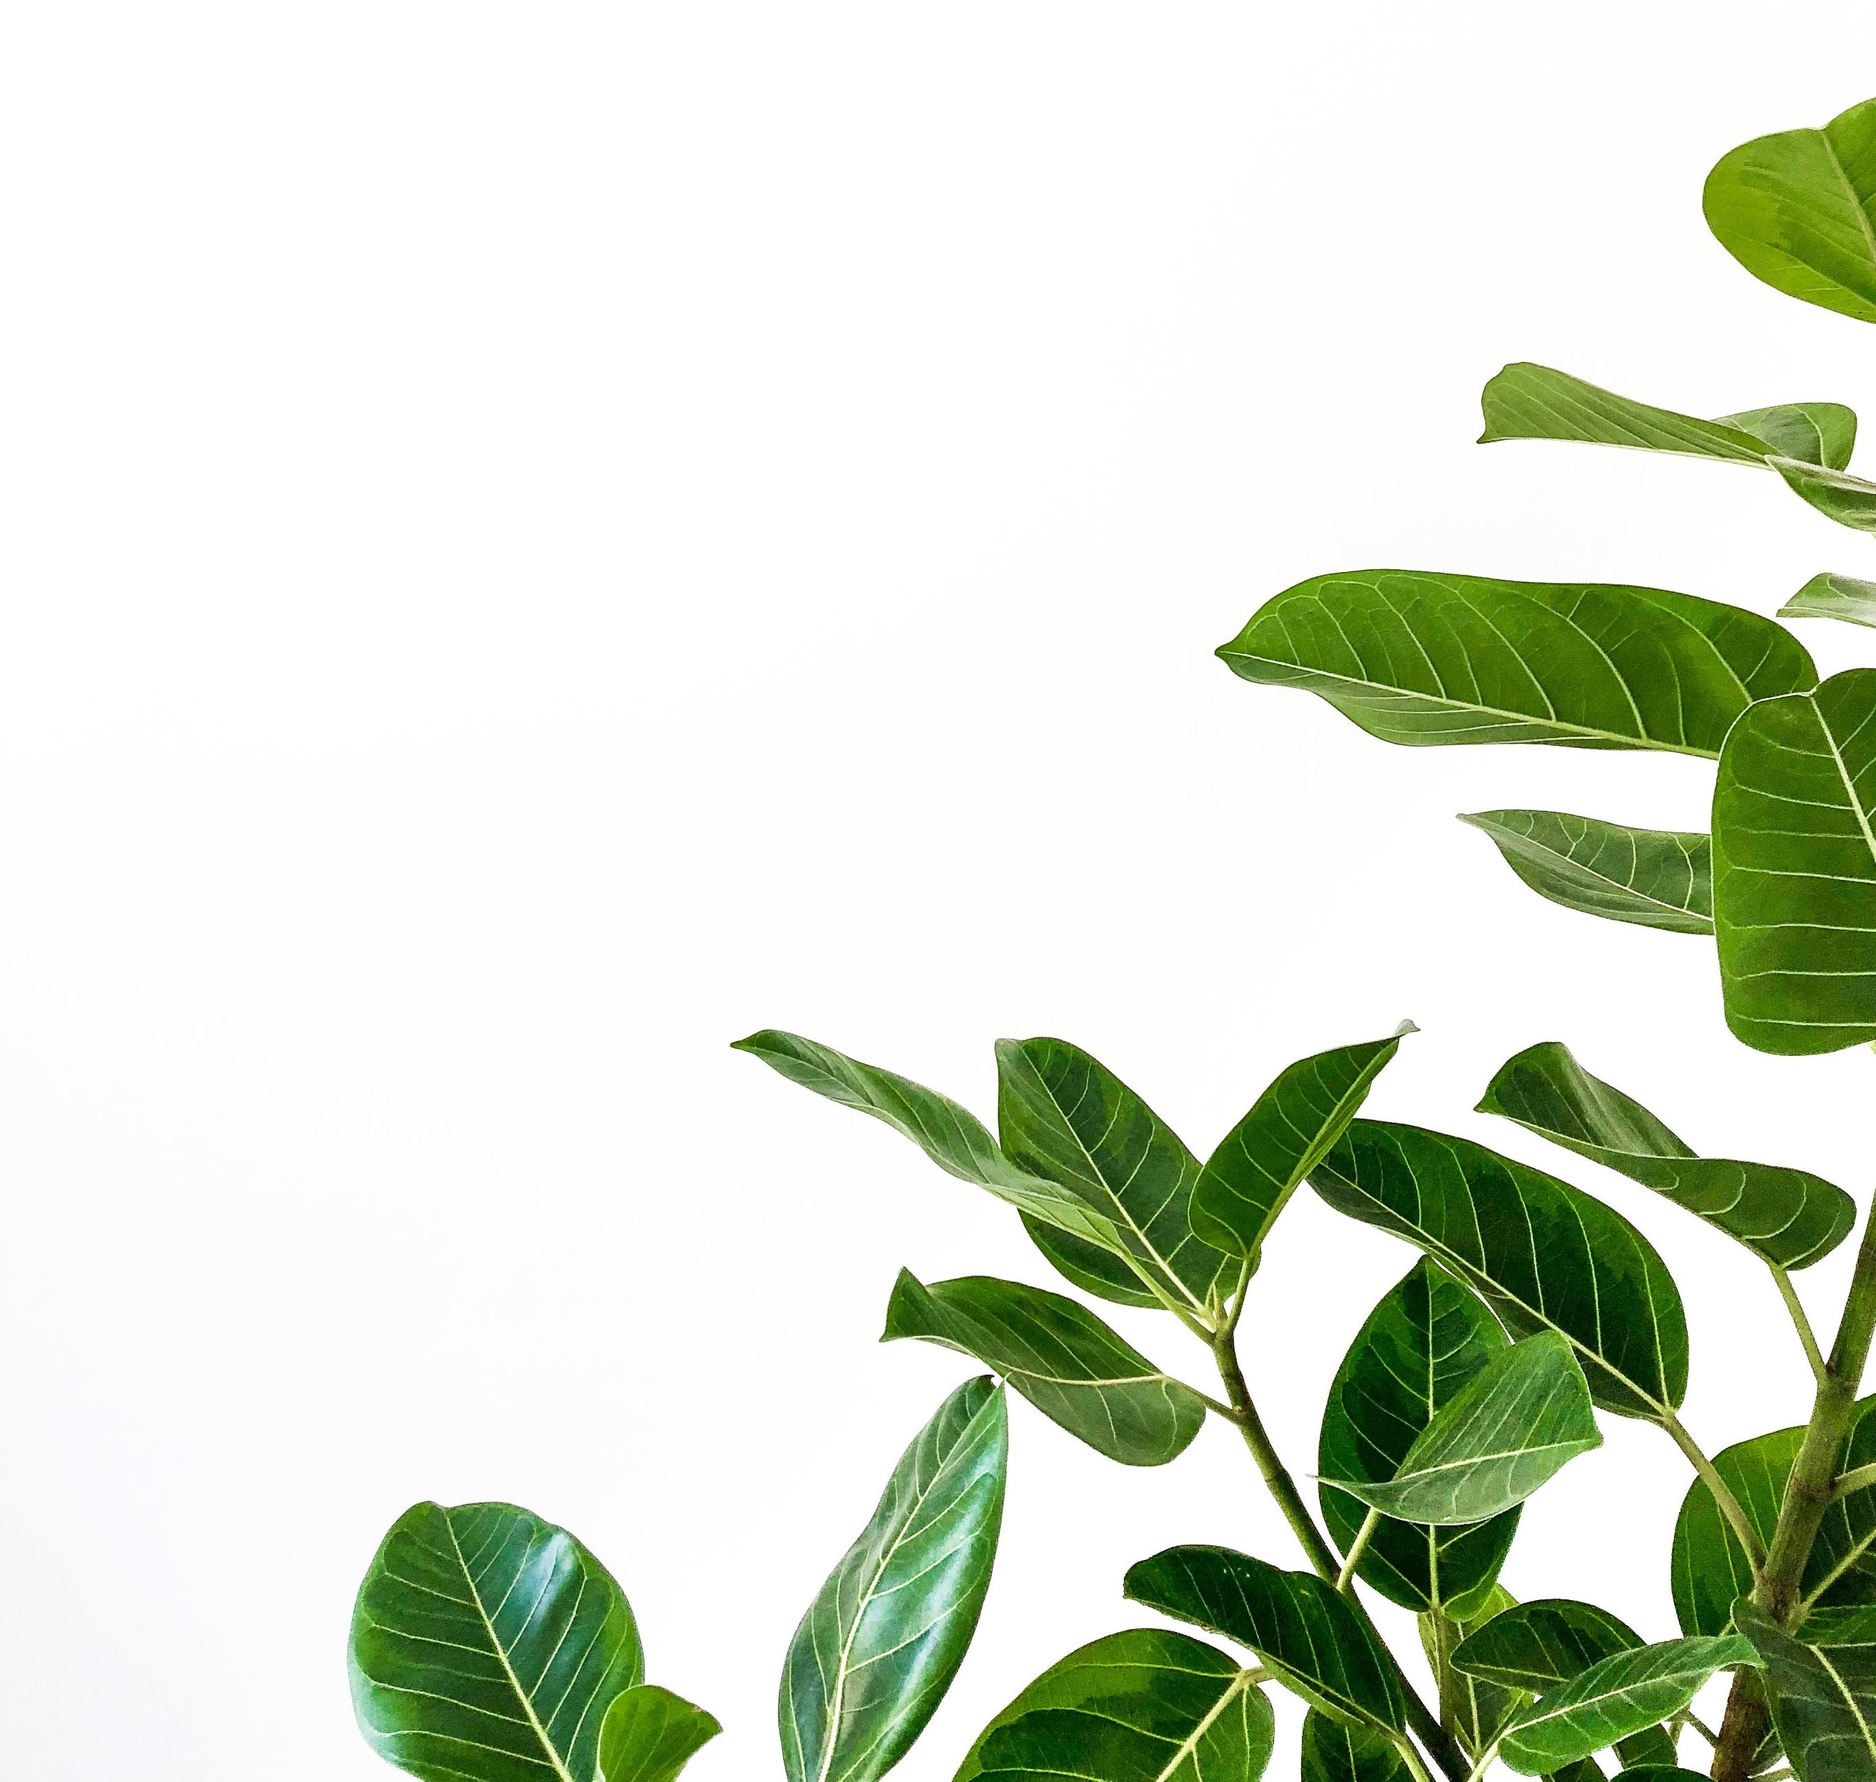
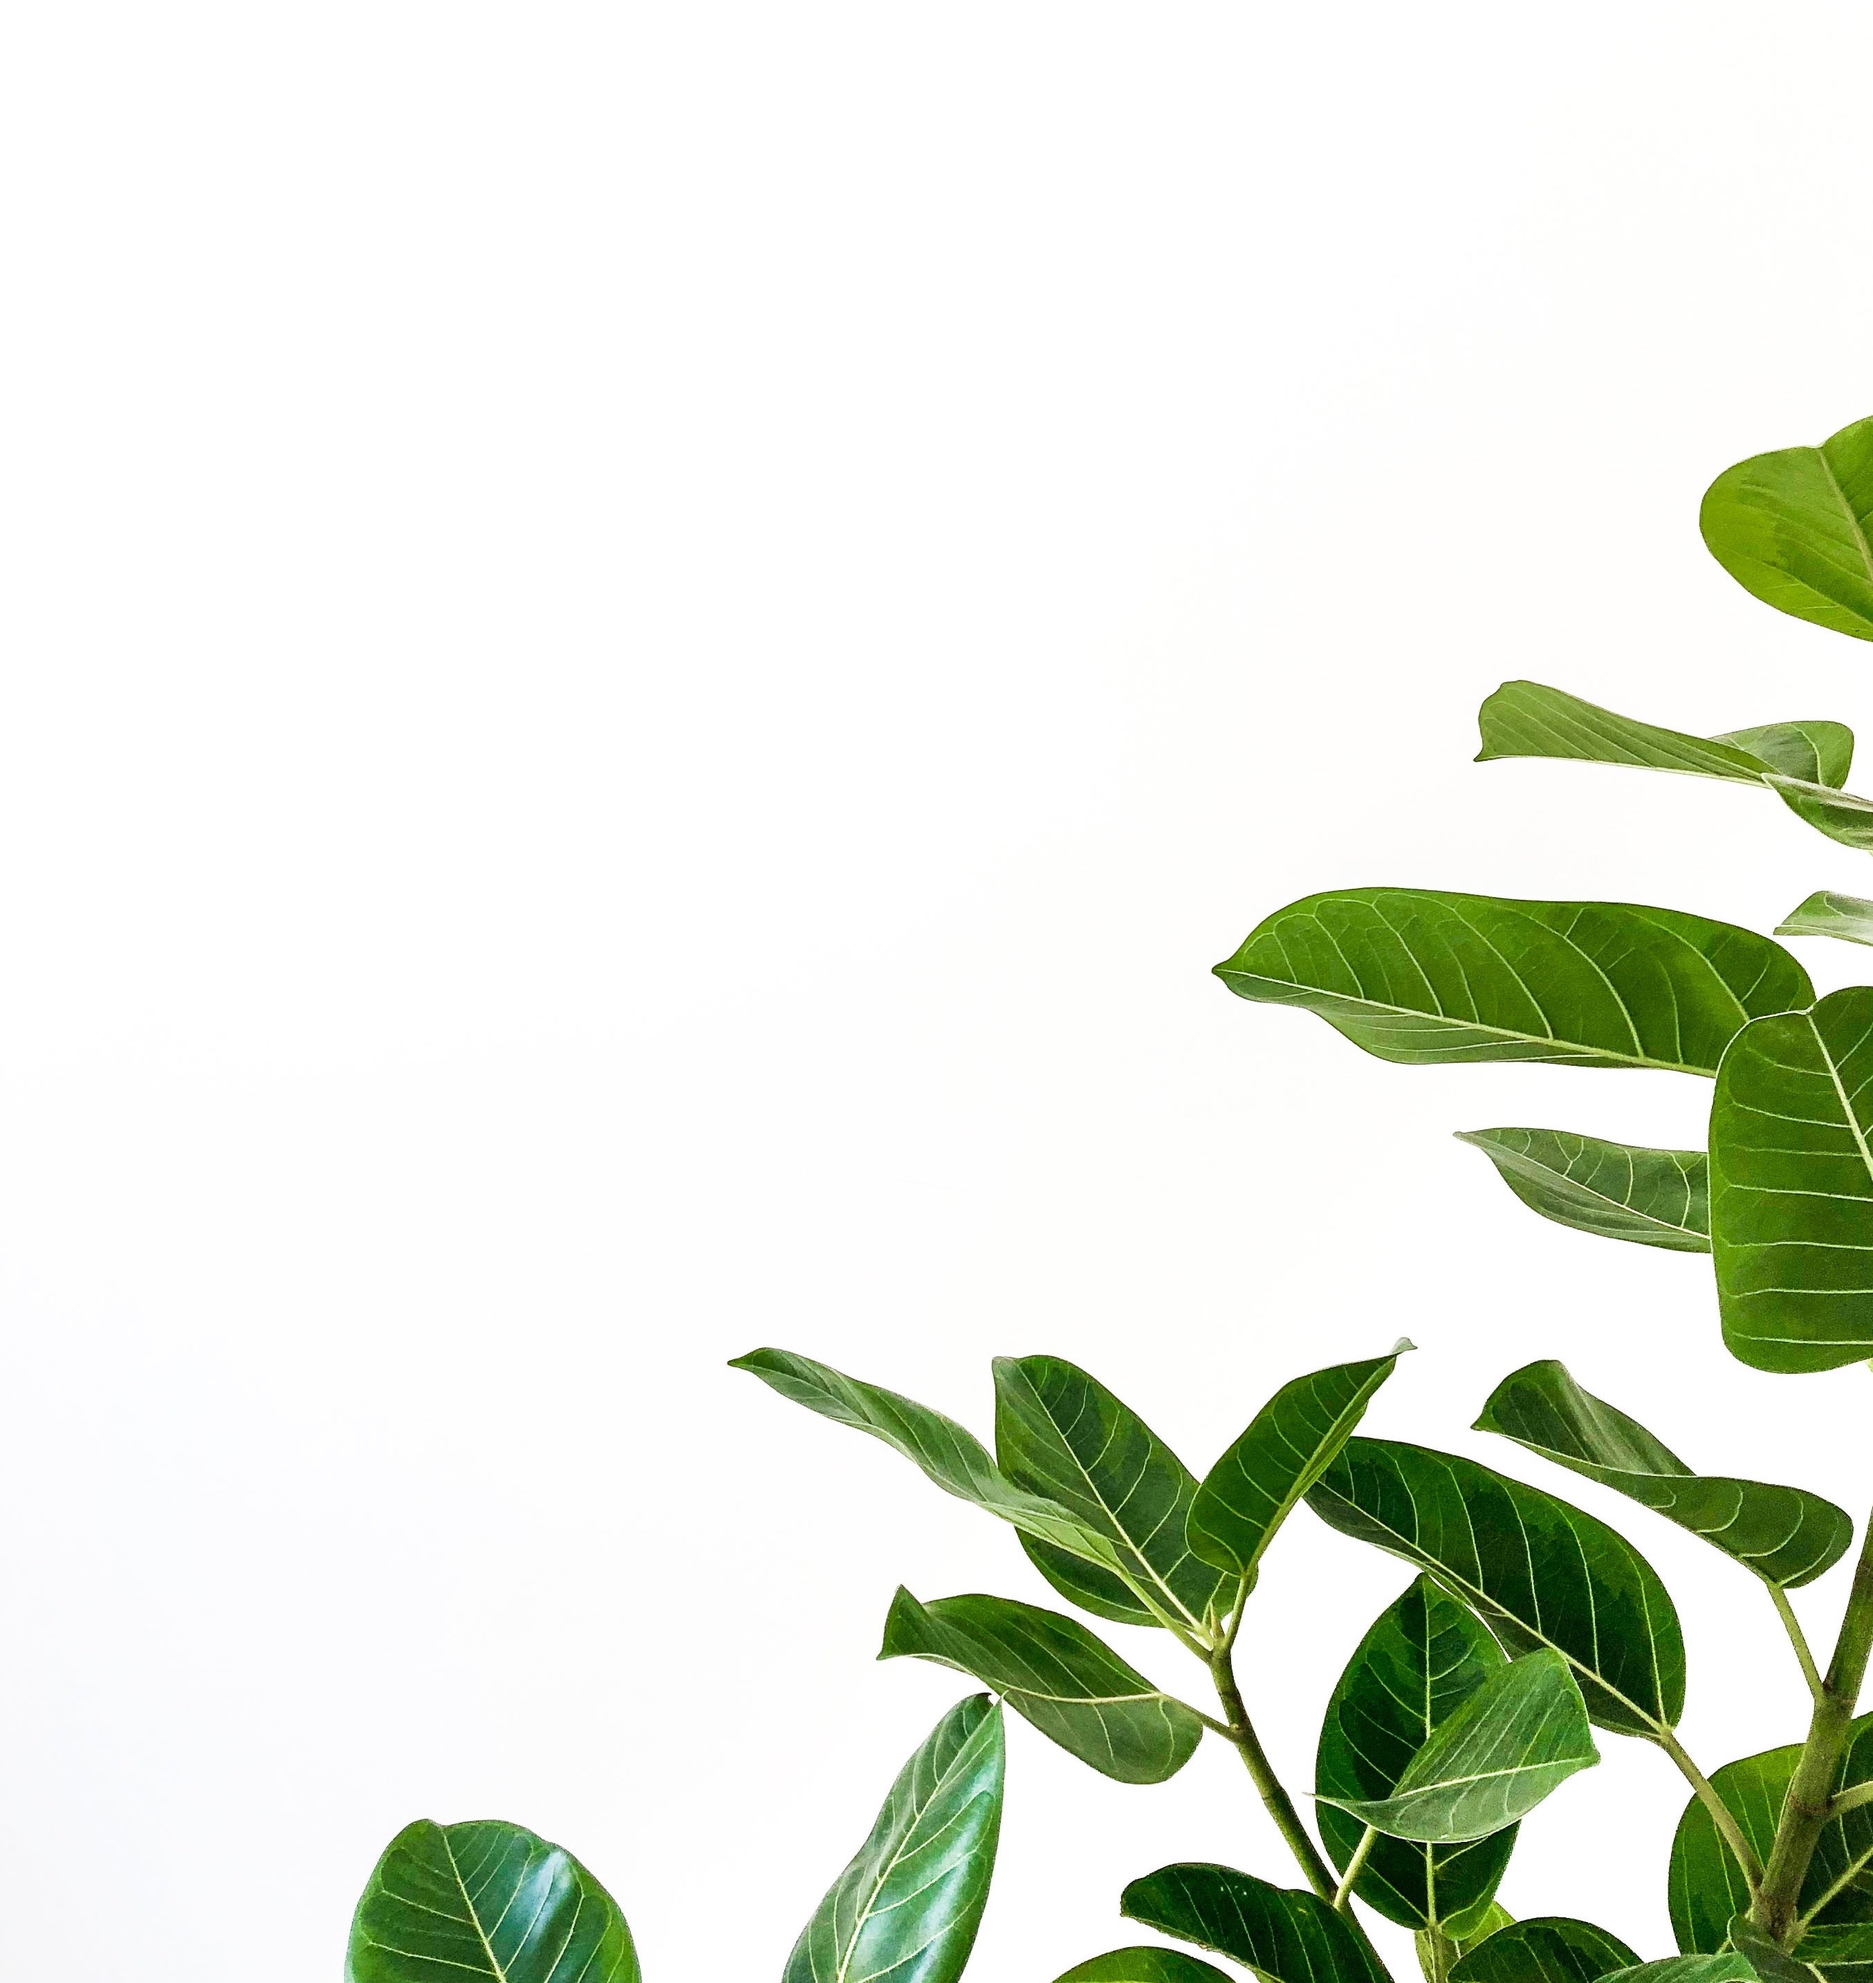
adjusted hero image position

Changed region(s): [[0.1861, 0.0311, 1.0, 1.0]]

diff --git a/styles/home.css b/styles/home.css
@@ -2,7 +2,7 @@
   position: relative;
   background: url(../media/home/hero.jpeg);
   background-size: cover;
-  background-position: left;
+  background-position: center;
 }
 
 .hero-content {
